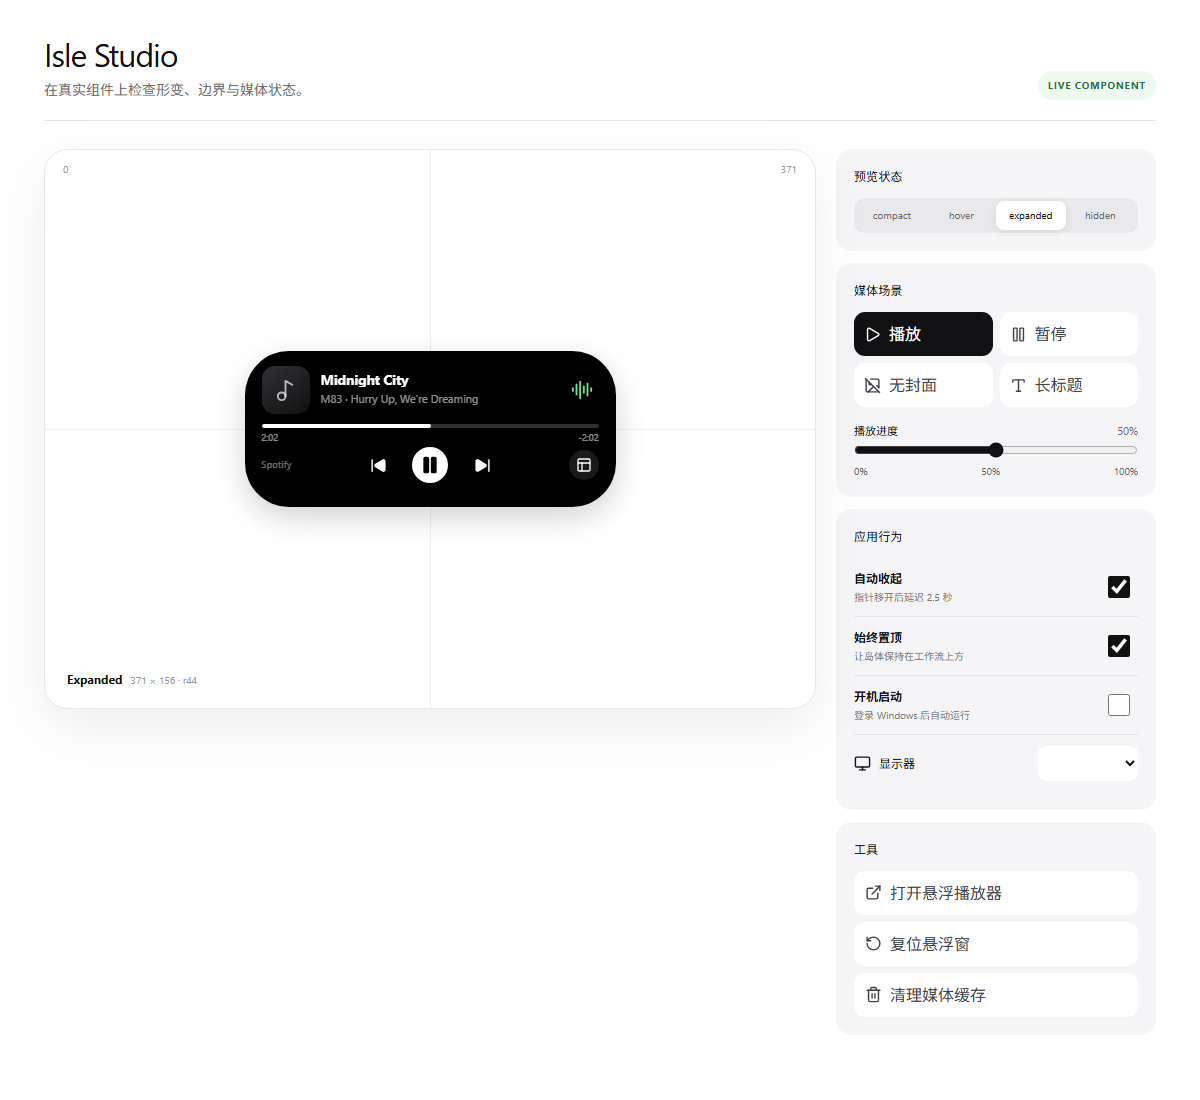
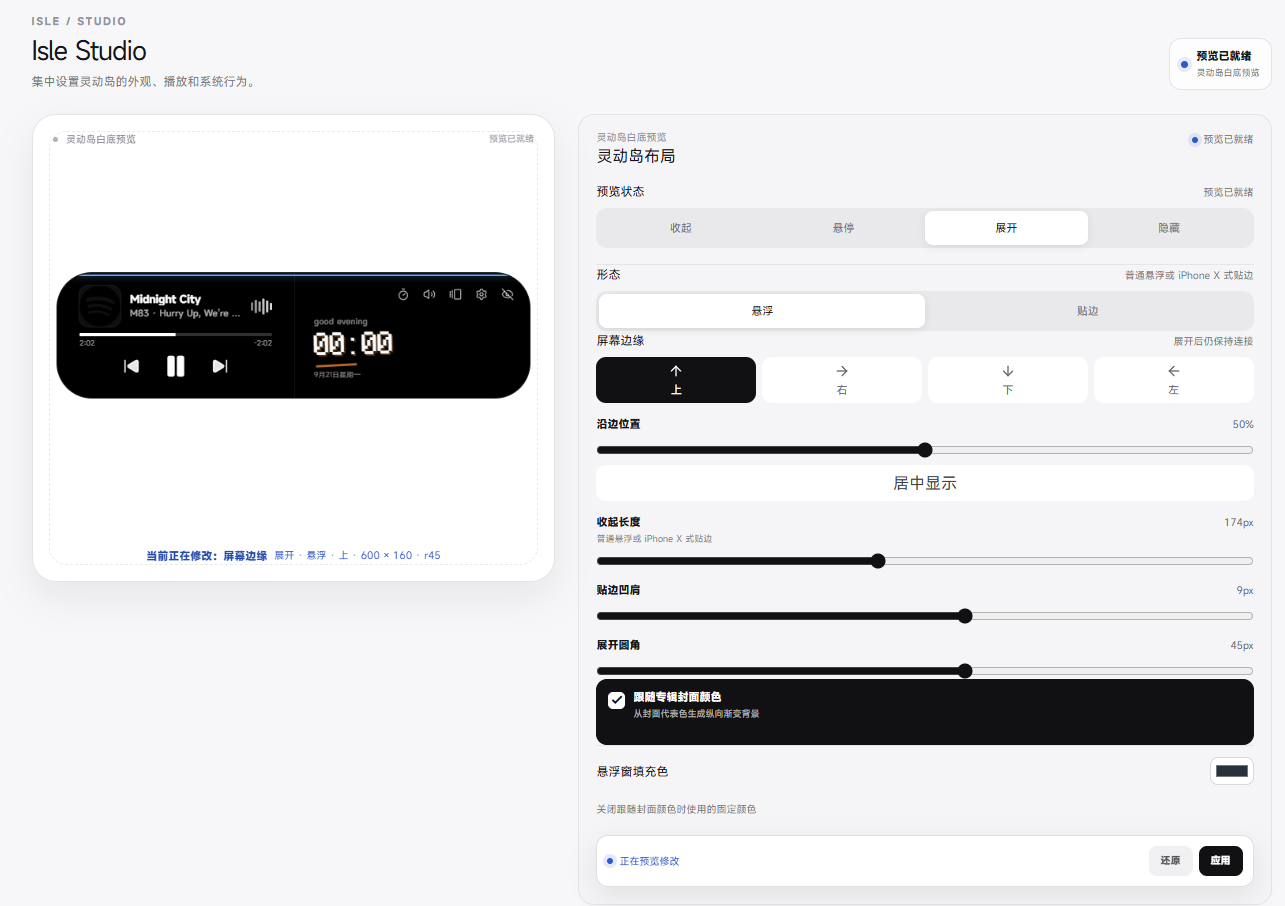
docs: refresh screenshots and floating player guide

diff --git a/README.md b/README.md
@@ -28,18 +28,28 @@ Isle 是面向 Windows 10/11 的桌面灵动岛与悬浮音乐播放器。它通
 - **系统媒体控制**：自动连接支持 SMTC 的播放器，支持播放、暂停、上一首、下一首与进度跳转。
 - **灵动岛交互**：收起、悬停、展开与自动隐藏；支持四向贴边、位置与尺寸调整。
 - **实时音频频谱**：系统音频 FFT 或平滑随机动画，暂停时自然回落。
-- **高清封面与悬浮播放器**：智能补全清晰封面，独立播放器与主岛共享播放状态。
+- **高清封面与悬浮播放器**：智能补全清晰封面；独立播放器与主岛共享曲目、播放状态和时间线。
 - **空闲信息面板**：日期、天气、网速、CPU、内存、电池和自定义文字轮播。
 - **快捷工具**：系统音量、输出设备切换、倒计时、临时隐藏与设置入口。
 - **捕获隐私**：针对截图、录屏、全屏游戏和屏幕共享分别配置隐藏行为。
 - **三语界面**：简体中文、English、日本語，可跟随系统或手动切换。
 - **Windows 集成**：多显示器、始终置顶、开机启动与系统托盘。
 
+## 悬浮播放器
+
+悬浮播放器提供独立于灵动岛的沉浸式媒体视图，可从 Isle Studio 或灵动岛快捷按钮打开。
+
+- 自由拖动并调整窗口尺寸，紧凑与大尺寸布局会自动适配。
+- 播放、暂停、上一首、下一首及进度显示与主岛实时同步。
+- 优先展示高清专辑封面；启用 MV 功能后，可静音循环播放匹配到的 30 秒预览片段。
+- 背景可跟随封面代表色生成渐变，也可使用自定义固定颜色。
+- 支持始终置顶、关闭、位置复位，以及截图、录屏和屏幕共享捕获保护。
+
 ## 界面预览
 
-| 悬浮播放器 | 紧凑尺寸 |
+| 悬浮播放器 | 媒体画面 |
 |:--:|:--:|
-| ![悬浮播放器](docs/screenshots/floating-player.png) | ![紧凑悬浮播放器](docs/screenshots/floating-player-compact.png) |
+| ![悬浮播放器](docs/screenshots/floating-player.png) | ![悬浮播放器媒体画面](docs/screenshots/floating-player-compact.png) |
 
 ## 安装
 

diff --git a/README.en.md b/README.en.md
@@ -24,15 +24,25 @@ Isle is a Dynamic Island-inspired desktop media controller and floating player f
 - Compact, hover, expanded, and auto-hidden island states
 - Floating or four-edge attached layouts with multi-monitor support
 - Live system-audio FFT spectrum or smooth generated animation
-- High-resolution artwork matching and a resizable floating player
+- High-resolution artwork matching and a resizable floating player synchronized with the island
 - Weather, date, network, CPU, memory, battery, and custom idle content
 - System volume, output-device selection, timer, tray, and startup integration
 - Capture privacy options for screenshots, recording, games, and screen sharing
 - Simplified Chinese, English, and Japanese UI
 
-| Floating player | Compact size |
+## Floating player
+
+The floating player is an independent, immersive media view that can be opened from Isle Studio or the island's shortcut controls.
+
+- Drag it anywhere and resize it freely; compact and large layouts adapt automatically.
+- Track, play state, timeline, play/pause, previous, and next controls stay synchronized with the island.
+- Prefer high-resolution artwork, or silently loop a matched 30-second video preview when the MV option is enabled.
+- Generate a background gradient from the artwork's representative color or use a fixed custom color.
+- Supports always-on-top, close, position reset, and capture protection for screenshots, recording, and screen sharing.
+
+| Floating player | Media view |
 |:--:|:--:|
-| ![Floating player](docs/screenshots/floating-player.png) | ![Compact floating player](docs/screenshots/floating-player-compact.png) |
+| ![Floating player](docs/screenshots/floating-player.png) | ![Floating player media view](docs/screenshots/floating-player-compact.png) |
 
 ## Install
 
